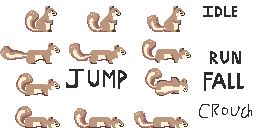
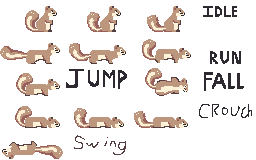
added swing animation

diff --git a/index.html b/index.html
@@ -109,7 +109,7 @@ body {
 
 		<script src="index.js"></script>
 		<script>
-const GODOT_CONFIG = {"args":[],"canvasResizePolicy":2,"emscriptenPoolSize":8,"ensureCrossOriginIsolationHeaders":true,"executable":"index","experimentalVK":false,"fileSizes":{"index.pck":1214188,"index.wasm":37685705},"focusCanvas":true,"gdextensionLibs":[],"godotPoolSize":4};
+const GODOT_CONFIG = {"args":[],"canvasResizePolicy":2,"emscriptenPoolSize":8,"ensureCrossOriginIsolationHeaders":true,"executable":"index","experimentalVK":false,"fileSizes":{"index.pck":1215988,"index.wasm":37685705},"focusCanvas":true,"gdextensionLibs":[],"godotPoolSize":4};
 const GODOT_THREADS_ENABLED = false;
 const engine = new Engine(GODOT_CONFIG);
 
